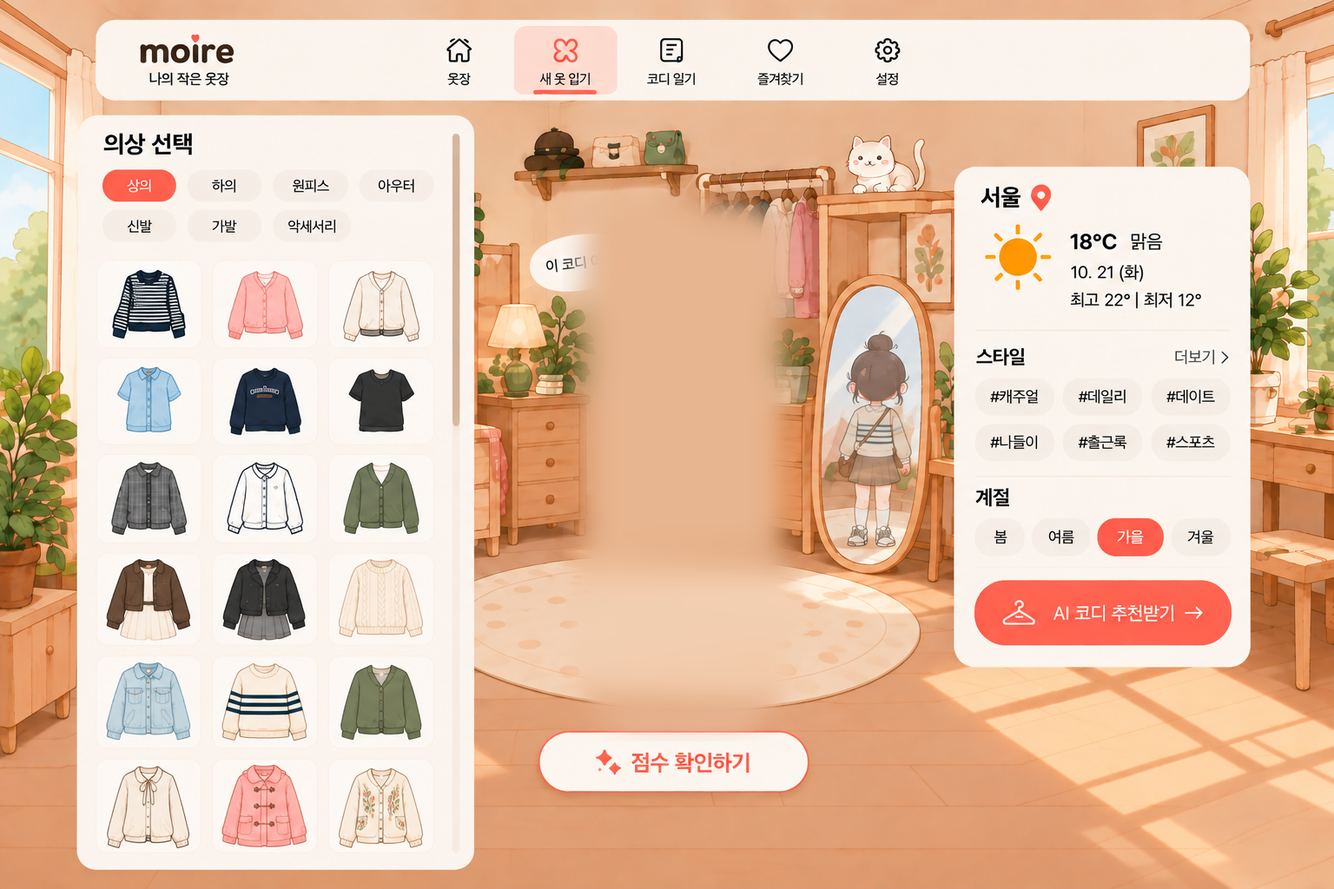
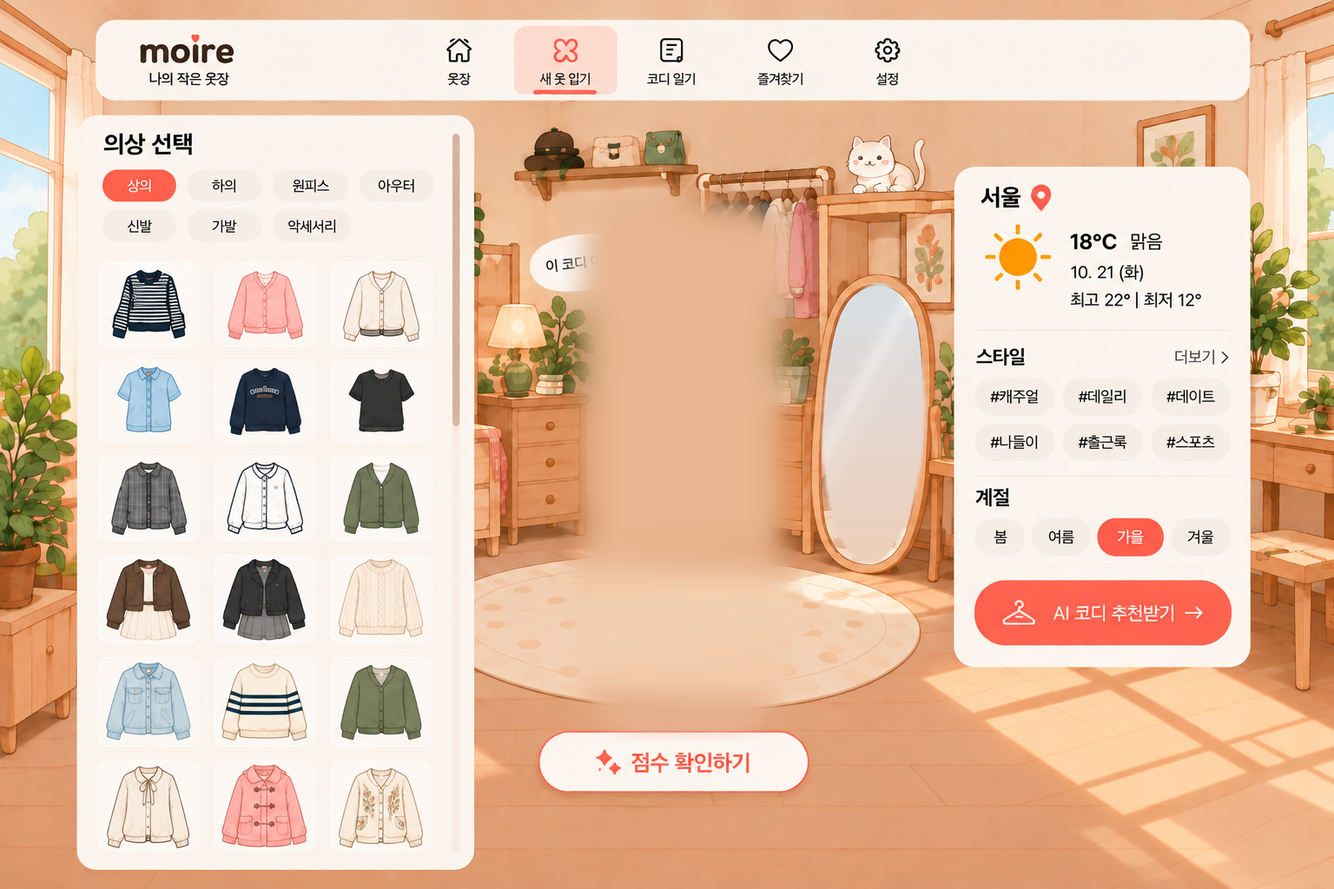
feat: show the mannequin's back view and outfit in the dress-up mirror (P-43)
- Repaint the mirror glass in pick-bg/recommend-bg to remove the girl
- Add a back view to Mannequin (SVG back hair, single back panel for outers, pajama back collar)
- Overlay the back-view mannequin on the mirror in the pick and recommend stages

Changed region(s): [[0.5938, 0.375, 0.7188, 0.625]]

diff --git a/web/src/components/Mannequin.jsx b/web/src/components/Mannequin.jsx
@@ -79,7 +79,7 @@ function darker(hex, amount = 0.3) {
 
 // 캐릭터 의상 틀 9개 (D-016, DESIGN §5.5). 잠옷처럼 마네킹의 몸 치수로 그려서 18가지 모양에 저절로 맞습니다.
 // 돌려주는 것: 틀을 이루는 path 목록
-function outfitPaths(template, d) {
+function outfitPaths(template, d, back = false) {
   const { sh, wa, hip, sy, waistY, hipY, armX, armW, armTop, wristY, legX, legW, pantW, ankleY } = d
   const legLen = ankleY - hipY
   const sleeve = (bottomY, extra = 0) =>
@@ -97,8 +97,21 @@ function outfitPaths(template, d) {
     }),
   ]
   // 앞이 열린 아우터의 한쪽 판. s = -1(왼쪽), 1(오른쪽)
+  // 뒷모습(back)은 두 판이 가운데에서 맞닿아 등판 하나로 보입니다.
   const outerHalf = (s, hemY) => {
     const p = (x, y) => `${s * x} ${y}`
+    if (back) {
+      return [
+        `M ${p(0, sy - 2)}`,
+        `L ${p(sh + 3, sy + 1)}`,
+        `Q ${p(sh + 5, sy + 2)} ${p(sh + 5, sy + 10)}`,
+        `Q ${p(sh + 5, (sy + 10 + waistY) / 2)} ${p(wa + 5, waistY)}`,
+        `Q ${p(hip + 6, (waistY + hipY) / 2)} ${p(hip + 6, hipY)}`,
+        `L ${p(hip + 7, hemY)}`,
+        `L ${p(0, hemY)}`,
+        'Z',
+      ].join(' ')
+    }
     return [
       `M ${p(13, sy - 1)}`,
       `L ${p(sh + 3, sy + 1)}`,
@@ -242,11 +255,11 @@ function usePattern(url) {
 // 칸 하나의 옷. 의상 틀이 있으면 틀을 대표 색으로 칠하고, 무늬가 있으면 틀 모양 안에만 겹칩니다(clipPath).
 // 틀이 없으면 2D 이미지를 칸 상자에 얹습니다.
 // item: 옷 한 벌 정보 { image_url, outfit_template, main_color, pattern_url } 또는 2D 이미지 주소(문자열)
-function ClothingShape({ item, box, dims, faded }) {
+function ClothingShape({ item, box, dims, faded, back }) {
   const clipId = `outfit-clip-${useId().replace(/:/g, '')}`
   const info = typeof item === 'object' ? item : null
   const pattern = usePattern(info?.pattern_url)
-  const paths = info?.main_color ? outfitPaths(info.outfit_template, dims) : null
+  const paths = info?.main_color ? outfitPaths(info.outfit_template, dims, back) : null
   if (!paths) {
     return <ClothingImage box={box} url={info ? info.image_url : item} faded={faded} />
   }
@@ -332,6 +345,42 @@ function EmptySlot({ box, label, labelY }) {
   )
 }
 
+const HAIR = '#604032'
+const HAIR_LINE = '#45291f'
+
+// 뒷머리 (거울에 비친 뒷모습). 머리 그림(HEAD)과 같은 자리·크기에 맞춰 그립니다.
+// 여자는 어깨 아래로 내려오는 긴 머리, 남자는 짧은 머리에 귀와 목덜미가 보입니다.
+function BackHead({ gender }) {
+  if (gender === 'male') {
+    return (
+      <g strokeLinejoin="round">
+        <ellipse cx={0} cy={56} rx={31} ry={28} fill={SKIN} stroke={SKIN_LINE} strokeWidth="1.2" />
+        {[-1, 1].map((s) => (
+          <ellipse key={s} cx={s * 35} cy={57} rx={6} ry={9} fill={SKIN} stroke={SKIN_LINE} strokeWidth="1.2" />
+        ))}
+        <path
+          d="M -36 52 C -40 12, -22 -1, 0 -1 C 22 -1, 40 12, 36 52 Q 30 70, 18 76 Q 9 72, 0 77 Q -9 72, -18 76 Q -30 70, -36 52 Z"
+          fill={HAIR}
+          stroke={HAIR_LINE}
+          strokeWidth="1.2"
+        />
+        <path d="M -4 14 Q -10 34, -14 56 M 6 16 Q 9 36, 12 58" fill="none" stroke={HAIR_LINE} strokeWidth="1" />
+      </g>
+    )
+  }
+  return (
+    <g strokeLinejoin="round">
+      <path
+        d="M -41 46 C -45 -12, 45 -12, 42 46 C 44 70, 49 92, 54 112 Q 47 131, 40 114 Q 33 132, 26 115 Q 20 131, 13 116 Q 6 132, 0 116 Q -6 132, -13 116 Q -20 131, -26 115 Q -33 132, -40 114 Q -47 131, -53 112 C -48 92, -43 70, -41 46 Z"
+        fill={HAIR}
+        stroke={HAIR_LINE}
+        strokeWidth="1.2"
+      />
+      <path d="M -10 4 Q -22 50, -26 108 M 10 4 Q 22 50, 26 108 M 0 6 Q 1 60, 0 110" fill="none" stroke={HAIR_LINE} strokeWidth="0.8" opacity="0.6" />
+    </g>
+  )
+}
+
 function Mannequin({
   gender = 'female',
   height = 'medium',
@@ -339,6 +388,7 @@ function Mannequin({
   outfit,
   showEmpty = false,
   fadedSlots = [],
+  back = false, // 뒷모습 (새 옷 입기의 거울에 비친 모습)
   className,
   title,
 }) {
@@ -389,7 +439,7 @@ function Mannequin({
   const coversBottom = hasDress || Boolean(worn.bottom)
   const pajamaFill = `url(#${patternId})`
   const slotShape = (slot) => (
-    <ClothingShape item={worn[slot]} box={boxes[slot]} dims={dims} faded={fadedSlots.includes(slot)} />
+    <ClothingShape item={worn[slot]} box={boxes[slot]} dims={dims} faded={fadedSlots.includes(slot)} back={back} />
   )
   const emptySlots = showEmpty
     ? ['shoes', 'bottom', 'top', 'outer'].filter((slot) => {
@@ -474,9 +524,9 @@ function Mannequin({
               strokeWidth="1.5"
               strokeLinejoin="round"
             />
-            {/* 앞섶과 단추 */}
-            <line x1={0} y1={SHOULDER_Y + 14} x2={0} y2={hipY + 12} stroke={PAJAMA_LINE} strokeWidth="1.2" />
-            {[0.2, 0.42, 0.64, 0.86].map((t) => (
+            {/* 앞섶과 단추 (뒷모습에는 없음) */}
+            {!back && <line x1={0} y1={SHOULDER_Y + 14} x2={0} y2={hipY + 12} stroke={PAJAMA_LINE} strokeWidth="1.2" />}
+            {!back && [0.2, 0.42, 0.64, 0.86].map((t) => (
               <circle
                 key={t}
                 cx={3}
@@ -528,8 +578,17 @@ function Mannequin({
           </g>
         ))}
 
-        {/* 칼라 */}
-        {!coversTop && [-1, 1].map((s) => (
+        {/* 칼라 (뒷모습은 목 뒤로 둘린 깃) */}
+        {!coversTop && back && (
+          <path
+            d={`M -17 ${SHOULDER_Y - 2} Q 0 ${SHOULDER_Y + 5} 17 ${SHOULDER_Y - 2} L 15 ${SHOULDER_Y + 5} Q 0 ${SHOULDER_Y + 12} -15 ${SHOULDER_Y + 5} Z`}
+            fill={COLLAR}
+            stroke={PAJAMA_LINE}
+            strokeWidth="1.5"
+            strokeLinejoin="round"
+          />
+        )}
+        {!coversTop && !back && [-1, 1].map((s) => (
           <path
             key={`collar${s}`}
             d={`M ${s * 1} ${SHOULDER_Y - 3} L ${s * 17} ${SHOULDER_Y - 1} L ${s * 14} ${SHOULDER_Y + 9} L ${s * 1} ${SHOULDER_Y + 16} Z`}
@@ -564,14 +623,18 @@ function Mannequin({
           />
         ))}
 
-        {/* 머리: 사람이 준 그림에서 잘라 낸 얼굴과 머리 (긴 머리는 어깨 위로 내려옴) */}
-        <image
-          href={head.href}
-          x={-head.cx * HEAD_SCALE}
-          y={CHIN_Y - head.chin * HEAD_SCALE}
-          width={head.w * HEAD_SCALE}
-          height={head.h * HEAD_SCALE}
-        />
+        {/* 머리: 사람이 준 그림에서 잘라 낸 얼굴과 머리 (긴 머리는 어깨 위로 내려옴). 뒷모습은 뒷머리 */}
+        {back ? (
+          <BackHead gender={gender} />
+        ) : (
+          <image
+            href={head.href}
+            x={-head.cx * HEAD_SCALE}
+            y={CHIN_Y - head.chin * HEAD_SCALE}
+            width={head.w * HEAD_SCALE}
+            height={head.h * HEAD_SCALE}
+          />
+        )}
       </g>
     </svg>
   )

diff --git a/web/src/styles/dressup.css b/web/src/styles/dressup.css
@@ -166,6 +166,35 @@
   height: 580px;
 }
 
+/* 거울에 비친 뒷모습. 배경 그림의 빈 거울 유리(타원, 2.2° 기울어짐)에 맞춥니다. */
+.du-mirror {
+  position: absolute;
+  left: 948px;
+  top: 327px;
+  width: 116px;
+  height: 322px;
+  border-radius: 50%;
+  overflow: hidden;
+  transform: rotate(2.2deg);
+}
+
+.du-mirror svg {
+  position: absolute;
+  left: -6px;
+  top: 41px;
+  width: 128px;
+  height: 256px;
+  opacity: 0.85;
+}
+
+/* 유리 반짝임을 비친 모습 위에도 겹칩니다. */
+.du-mirror::after {
+  content: '';
+  position: absolute;
+  inset: 0;
+  background: linear-gradient(118deg, transparent 30%, rgba(255, 255, 255, 0.35) 38%, transparent 46%);
+}
+
 /* ── 오른쪽 날씨·스타일·날짜 (시안 .side) ── */
 .du-side {
   position: absolute;
@@ -447,6 +476,18 @@
   top: 250px;
   width: 190px;
   height: 455px;
+}
+
+.du--recommend .du-mirror {
+  left: 947px;
+  top: 324px;
+  width: 112px;
+  height: 314px;
+}
+
+.du--recommend .du-mirror svg {
+  left: -8px;
+  top: 33px;
 }
 
 .du--recommend .du-side {

diff --git a/web/src/components/DressUpScreen.jsx b/web/src/components/DressUpScreen.jsx
@@ -411,6 +411,12 @@ function DressUpScreen({ mannequin, regions, onNoClothes, onConfirmed, initial, 
         </div>
       )}
       <Mannequin className="du-mannequin" {...mannequin} outfit={worn} showEmpty={!scoreStage} />
+      {/* 배경 그림의 빈 거울에 지금 입힌 코디의 뒷모습이 비칩니다. 점수 확인 배경에는 거울이 없습니다. */}
+      {!scoreStage && (
+        <div className="du-mirror" aria-hidden="true">
+          <Mannequin {...mannequin} outfit={worn} back />
+        </div>
+      )}
 
       {!scoreStage && (
         <SidePanel

diff --git a/README.md b/README.md
@@ -6,7 +6,7 @@ moire는 "My Outfit Identity Reflection Everyday"의 약자입니다. (D-019)
 
 ## 현재 상태
 
-P-11 ~ P-22를 마쳐 앱 전체가 가짜 부품(AI, 2D 이미지화, 날씨)으로 동작하게 만든 뒤, AI와 날씨는 진짜로 연결했습니다 (P-23 ~ P-29). 2D 이미지화는 서버에서 사진의 배경을 지운 투명 PNG를 만듭니다 (D-015, P-30). 마네킹에는 옷 종류별 틀 9개에 옷의 대표 색을 칠한 캐릭터 의상이 입혀지고, 옷 등록 창에서 [마네킹에 입혀 보기]로 미리 볼 수 있습니다 (D-016, P-31). 옷의 무늬(줄무늬, 데님, 벨트 등)도 서버가 사진에서 path로 바꿔 틀 안에만 보입니다 (P-32). 옷장의 옷 상세와 등록 창에서 [모습 조절]로 틀(같은 구분 안)과 옷의 위치·크기·기울기, 무늬의 위치·크기를 바꿀 수 있고, 마네킹이 나오는 모든 곳에 보입니다 (P-33). 등록 창의 [배경 고치기]로 배경색 고르기, 허용 오차, 지우기·복원 브러시, 실행 취소로 2D 이미지를 직접 고칠 수 있습니다 (P-34). 화면은 모두 시안(`style/html`과 사람이 준 그림)의 1536×1024 그림을 배경으로 깔고 창 크기에 맞춰 줄어듭니다 (P-38). 처음 열면 성별 → 키 → 체형 → 확인을 한 단계씩 골라 마네킹 모양을 정하고, 그 뒤에는 처음 화면(방 안에 잠옷 차림 마네킹, 말풍선, 오늘 날씨 카드)과 메뉴 다섯 개가 보입니다. 메뉴바 로고를 누르면 언제든 처음 화면으로 돌아옵니다. 메뉴 "옷장"에서 구분별 옷 목록을 보고, 옷을 등록하고(사진 올리기, 키워드 고르기, [+ 더하기]), 상세를 보고, 선택 키워드를 고치고, 지울 수 있습니다. 메뉴 "새 옷 입기"에서 날짜(오늘 포함 5일), 지역, 태그를 고르고, 옷을 마네킹에 입혀 점수를 보거나, AI의 추천을 최대 3벌 받아 [입혀 보기]로 고칠 수 있습니다. [확정하기]를 누르면 코디 일기에 저장되고 날씨 배경(맑음, 비, 눈)에 확정한 옷 차림과 날씨 카드, 오늘의 코디 아이템이 보입니다. 메뉴 "코디 일기"에서 3열 카드를 달별로 거르고 최신순·오래된순으로 보며, ⋯ 메뉴로 다시 입혀 보거나 지우고, ♡/♥로 즐겨찾기에 넣거나 뺄 수 있습니다. 추천 카드의 하트, 점수 확인 단계와 확정한 뒤 화면의 [즐겨찾기]로도 즐겨찾기에 넣을 수 있고, 메뉴 "즐겨찾기"의 옷걸이에서 카드를 끌어서 순서를 바꾸고, ♥로 바로 빼고, 카드를 눌러 다시 입혀 볼 수 있습니다. 메뉴 "설정"은 왼쪽 메뉴 네 개로 나뉘어, 마네킹 모양([설정 완료]로 저장), 내 지역(시·도 17곳), 옷 키워드와 종류 단어의 성별, 스타일 태그를 관리합니다. 비슷한 단어 확인은 AI가 합니다 (D-011). 가짜 AI(`AI_PROVIDER=fake`)일 때는 "블랙"을 더할 때만 질문이 나옵니다. 사진은 `data/photos/`에 저장됩니다. 서버를 켜면 `data/app.db`가 없을 때 새로 만들고 앱 기본 단어와 태그를 넣습니다 (D-017). AI, 2D 이미지화, 날씨는 `server/app/external/`에 있고, 진짜를 연결하는 일은 사람이 정한 뒤에 합니다. 진짜 AI는 Amazon Bedrock의 Nova Lite로 정했고(D-013), 연결 준비를 마쳤습니다 (P-23). 종류 단어의 성별, 비슷한 단어 판단, 코디 점수는 Nova Lite가 합니다 (P-24, P-25). 점수는 옷 키워드와 2D 이미지를 함께 보고 매깁니다. 코디 추천도 Nova Lite가 하며, 옷 사진 없이 구분과 키워드만 보고 고릅니다 (P-26). 추천받기 전에 페르소나(전문가, 친구, 즐겨찾기 기반 "내 스타일")와 요청 글(선택, 200자)을 고를 수 있고, 옷장에 맞는 옷이 모자라면 사면 좋을 옷을 최대 2개 함께 알려 줍니다 (P-39). 옷을 등록할 때 사진을 보고 구분과 키워드를 미리 고르는 일도 Nova Lite가 합니다 (P-27). AI를 기다리는 시간은 일마다 잰 값으로 정했고(API-SPEC §2.3), 넘기면 실패로 보고 정해 둔 실패 흐름을 탑니다 (P-28). `server/.env`의 `AI_PROVIDER`가 `fake`면 모두 가짜 AI가 답합니다. 날씨는 OpenWeatherMap의 무료 5일 예보로 받습니다 (D-014, P-29). 하루 상태(맑음, 흐림, 비, 눈)는 활동 시간(06시~21시) 예보로 고르고, 오늘은 지금 이후 시간만 반영됩니다. `server/.env`의 `WEATHER_PROVIDER`가 없거나 `fake`면 가짜 날씨입니다.
+P-11 ~ P-22를 마쳐 앱 전체가 가짜 부품(AI, 2D 이미지화, 날씨)으로 동작하게 만든 뒤, AI와 날씨는 진짜로 연결했습니다 (P-23 ~ P-29). 2D 이미지화는 서버에서 사진의 배경을 지운 투명 PNG를 만듭니다 (D-015, P-30). 마네킹에는 옷 종류별 틀 9개에 옷의 대표 색을 칠한 캐릭터 의상이 입혀지고, 옷 등록 창에서 [마네킹에 입혀 보기]로 미리 볼 수 있습니다 (D-016, P-31). 옷의 무늬(줄무늬, 데님, 벨트 등)도 서버가 사진에서 path로 바꿔 틀 안에만 보입니다 (P-32). 옷장의 옷 상세와 등록 창에서 [모습 조절]로 틀(같은 구분 안)과 옷의 위치·크기·기울기, 무늬의 위치·크기를 바꿀 수 있고, 마네킹이 나오는 모든 곳에 보입니다 (P-33). 등록 창의 [배경 고치기]로 배경색 고르기, 허용 오차, 지우기·복원 브러시, 실행 취소로 2D 이미지를 직접 고칠 수 있습니다 (P-34). 화면은 모두 시안(`style/html`과 사람이 준 그림)의 1536×1024 그림을 배경으로 깔고 창 크기에 맞춰 줄어듭니다 (P-38). 처음 열면 성별 → 키 → 체형 → 확인을 한 단계씩 골라 마네킹 모양을 정하고, 그 뒤에는 처음 화면(방 안에 잠옷 차림 마네킹, 말풍선, 오늘 날씨 카드)과 메뉴 다섯 개가 보입니다. 메뉴바 로고를 누르면 언제든 처음 화면으로 돌아옵니다. 메뉴 "옷장"에서 구분별 옷 목록을 보고, 옷을 등록하고(사진 올리기, 키워드 고르기, [+ 더하기]), 상세를 보고, 선택 키워드를 고치고, 지울 수 있습니다. 메뉴 "새 옷 입기"에서 날짜(오늘 포함 5일), 지역, 태그를 고르고, 옷을 마네킹에 입혀 점수를 보거나, AI의 추천을 최대 3벌 받아 [입혀 보기]로 고칠 수 있습니다. 방 안의 거울에는 고른 마네킹이 지금 입은 코디의 뒷모습이 비칩니다 (P-43). [확정하기]를 누르면 코디 일기에 저장되고 날씨 배경(맑음, 비, 눈)에 확정한 옷 차림과 날씨 카드, 오늘의 코디 아이템이 보입니다. 메뉴 "코디 일기"에서 3열 카드를 달별로 거르고 최신순·오래된순으로 보며, ⋯ 메뉴로 다시 입혀 보거나 지우고, ♡/♥로 즐겨찾기에 넣거나 뺄 수 있습니다. 추천 카드의 하트, 점수 확인 단계와 확정한 뒤 화면의 [즐겨찾기]로도 즐겨찾기에 넣을 수 있고, 메뉴 "즐겨찾기"의 옷걸이에서 카드를 끌어서 순서를 바꾸고, ♥로 바로 빼고, 카드를 눌러 다시 입혀 볼 수 있습니다. 메뉴 "설정"은 왼쪽 메뉴 네 개로 나뉘어, 마네킹 모양([설정 완료]로 저장), 내 지역(시·도 17곳), 옷 키워드와 종류 단어의 성별, 스타일 태그를 관리합니다. 비슷한 단어 확인은 AI가 합니다 (D-011). 가짜 AI(`AI_PROVIDER=fake`)일 때는 "블랙"을 더할 때만 질문이 나옵니다. 사진은 `data/photos/`에 저장됩니다. 서버를 켜면 `data/app.db`가 없을 때 새로 만들고 앱 기본 단어와 태그를 넣습니다 (D-017). AI, 2D 이미지화, 날씨는 `server/app/external/`에 있고, 진짜를 연결하는 일은 사람이 정한 뒤에 합니다. 진짜 AI는 Amazon Bedrock의 Nova Lite로 정했고(D-013), 연결 준비를 마쳤습니다 (P-23). 종류 단어의 성별, 비슷한 단어 판단, 코디 점수는 Nova Lite가 합니다 (P-24, P-25). 점수는 옷 키워드와 2D 이미지를 함께 보고 매깁니다. 코디 추천도 Nova Lite가 하며, 옷 사진 없이 구분과 키워드만 보고 고릅니다 (P-26). 추천받기 전에 페르소나(전문가, 친구, 즐겨찾기 기반 "내 스타일")와 요청 글(선택, 200자)을 고를 수 있고, 옷장에 맞는 옷이 모자라면 사면 좋을 옷을 최대 2개 함께 알려 줍니다 (P-39). 옷을 등록할 때 사진을 보고 구분과 키워드를 미리 고르는 일도 Nova Lite가 합니다 (P-27). AI를 기다리는 시간은 일마다 잰 값으로 정했고(API-SPEC §2.3), 넘기면 실패로 보고 정해 둔 실패 흐름을 탑니다 (P-28). `server/.env`의 `AI_PROVIDER`가 `fake`면 모두 가짜 AI가 답합니다. 날씨는 OpenWeatherMap의 무료 5일 예보로 받습니다 (D-014, P-29). 하루 상태(맑음, 흐림, 비, 눈)는 활동 시간(06시~21시) 예보로 고르고, 오늘은 지금 이후 시간만 반영됩니다. `server/.env`의 `WEATHER_PROVIDER`가 없거나 `fake`면 가짜 날씨입니다.
 
 문서는 README.md, AGENTS.md, DECISIONS.md, PLAN.md, PRD.md, ARCHITECTURE.md, SCREEN-SPEC.md, DATA-MODEL.md, API-SPEC.md, TEST-PLAN.md, DESIGN.md가 있습니다.
 

diff --git a/PLAN.md b/PLAN.md
@@ -81,6 +81,7 @@
 | P-40 | 추천: 진짜 AI 확인과 지시문 고치기 | 완료 | Bedrock·OpenWeatherMap 연결을 확인하고, P-39을 Nova Lite로 같은 12개 시나리오(날씨 4 × 페르소나 3)에 돌려 말투, 근거, 사면 좋을 옷을 보고 고친다. 모델 비교는 하지 않음 (사람이 정함, 2026-10-22) |
 | P-41 | 추천만 다른 모델로 (BEDROCK_MODEL_ID2) | 완료 | `server/.env`의 `BEDROCK_MODEL_ID2`가 있으면 추천만 그 모델로 보낸다. Claude 모델은 도구 강제와 temperature 없이 부른다. 추천 실패 이유를 서버 기록에 남긴다. 서울에서는 아시아·태평양(apac.) 모델만 쓴다 (Sonnet 5.5는 global.만 있어 쓰지 않음, 사람이 정함 2026-10-23). Claude 3.5 Sonnet 비교는 계정의 Anthropic 사용 목적 양식 처리 뒤 |
 | P-42 | 추천: 페르소나마다 모델, 버튼 위치 | 완료 | 페르소나 칩과 원하는 상황 입력칸을 [AI 코디 추천받기] 아래로 옮긴다. 전문가는 Claude 3.5 Sonnet(`BEDROCK_MODEL_ID2`), 친구·내 스타일은 Nova Lite. 전문가 모델을 못 부르면 실패로 보여 줌. D-020 (사람이 정함, 2026-10-23) |
+| P-43 | 새 옷 입기: 거울에 비친 뒷모습 | 확인 기다림 | 옷 고르기·추천 보기 배경의 거울에서 여자아이를 지우고, 그 자리에 고른 마네킹 모양과 지금 입힌 코디의 뒷모습이 비친다. 옷을 바꾸면 거울도 바로 바뀐다. 뒷머리는 SVG로 그린다 (사람이 정함, 2026-10-23). 사람이 화면을 보고 승인한다 |
 
 ## 실제 검증 결과
 
@@ -510,3 +511,9 @@
   - 진짜 AI 호출: 5번 (Sonnet 2, Nova 3). 어림 비용 약 $0.03
   - 실행하지 않음: 전문가 모델 실패를 화면에서 일부러 만들기 (서버 쪽은 기존 실패 흐름 그대로), 12개 시나리오 품질 비교
   - 다음 (사람이 정함): 전문가 기다리는 시간(약 15초, 서버 한도 20초)을 늘릴지
+- P-43 (2026-10-23, `recommend` 브랜치). 새 옷 입기 거울에 비친 뒷모습. 사람 확인 기다림.
+  - 정한 것 (사람이 정함, 2026-10-23): 남자 마네킹인데 거울에 여자아이가 비치는 문제를, 거울에 실제 마네킹의 뒷모습과 코디를 비추는 방법으로 고침. 빈 거울 배경은 AI가 Pillow로 만들고, 시험본을 본 뒤 원본을 바꿈. 뒷머리는 그림을 구하지 않고 SVG로 그림
+  - 만든 것: `pick-bg.png`, `recommend-bg.png`의 거울 유리 타원 안을 그라데이션과 사선 반짝임으로 다시 칠함 (나무 테두리는 그대로). `Mannequin.jsx`에 `back`(뒷머리 SVG, 아우터 등판 하나, 잠옷 뒷깃), `DressUpScreen.jsx`에 거울 자리 뒷모습 마네킹(점수 확인 단계에는 없음), `styles/dressup.css`에 `.du-mirror`(유리 타원에 맞춰 자르고 2.2° 기울임). DESIGN §5.10과 SCREEN-SPEC 새 옷 입기 머리에 "제안"으로 적음
+  - 확인: `npm run build` 통과, `npm run lint` 경고 13개 (전과 같음, 바꾼 파일은 경고 없음). 개발 서버(`data-dev`, 여자 마네킹)의 옷 고르기에서 상의·하의·신발·아우터를 입히자 거울의 뒷모습이 따라 바뀜. 여자·남자 × 잠옷·옷·원피스를 따로 그려 비교함. 추천 보기는 화면 상태만 바꿔 배경과 거울 위치가 맞는지 봄
+  - 실행하지 않음: 진짜 AI 추천 뒤의 추천 보기 화면 (위처럼 위치만 확인), 실제 화면에서 남자 마네킹 (`data-dev` 설정이 여자, 따로 그려서만 확인)
+  - 남은 것: 무늬는 옷 사진 앞면에서 뽑은 것이라 앞쪽 선이나 로고가 뒷모습에도 보임. 의상 틀이 없는 옷은 뒷모습에도 앞 2D 이미지. 배경은 팀원 시안(D-019)을 고친 것이라 팀원에게 알림

diff --git a/SCREEN-SPEC.md b/SCREEN-SPEC.md
@@ -211,7 +211,7 @@ PRD에는 없는 내용입니다. ARCHITECTURE §5에서 SCREEN-SPEC과 API-SPEC
 메뉴 "새 옷 입기"를 누르면 방 안의 옷장이 커지고, 마네킹 위에 조건 띠가 생깁니다. 직접 옷을 입히거나 "추천받기"로 추천을 받습니다.
 
 - 옷이 한 벌도 없으면 이 화면을 열지 않고 옷 없음 경고창(2.6)을 보인 뒤 옷장(6장)으로 옮겨 갑니다. (사람이 정함, 2026-10-20)
-- (2026-10-22 바꿈, P-38) 시안 `style/html`의 08_1(따뜻한: 옷 고르기), 08_1(파스텔: 추천 보기), 12(점수 확인)를 그대로 옮겼습니다 (사람이 정함). 배경은 시안 PNG에서 가운데 캐릭터 자리를 메운 그림이고, 그 자리에 앱 마네킹이 섭니다. 마네킹 옆에 말풍선 "이 코디 어때?"(장식). 시안의 가방·악세서리 칩과 계절 칩, 점수의 항목별 점수는 앱에 없어 넣지 않습니다 (사람이 정함). 아래 각 절의 그림과 표는 기능 기준이고, 배치는 각 절 머리의 설명을 따릅니다.
+- (2026-10-22 바꿈, P-38) 시안 `style/html`의 08_1(따뜻한: 옷 고르기), 08_1(파스텔: 추천 보기), 12(점수 확인)를 그대로 옮겼습니다 (사람이 정함). 배경은 시안 PNG에서 가운데 캐릭터 자리를 메운 그림이고, 그 자리에 앱 마네킹이 섭니다. 마네킹 옆에 말풍선 "이 코디 어때?"(장식). (제안, 2026-10-23) 옷 고르기·추천 보기의 거울에는 지금 입힌 코디를 입은 마네킹의 뒷모습이 비칩니다. 고른 마네킹 모양(성별, 키, 체형)을 따르고, 옷을 바꾸면 바로 같이 바뀝니다. 누를 수 없는 장식입니다 (DESIGN §5.10). 시안의 가방·악세서리 칩과 계절 칩, 점수의 항목별 점수는 앱에 없어 넣지 않습니다 (사람이 정함). 아래 각 절의 그림과 표는 기능 기준이고, 배치는 각 절 머리의 설명을 따릅니다.
 
 ### 5.1 조건 띠
 

diff --git a/DESIGN.md b/DESIGN.md
@@ -302,6 +302,8 @@
 - 추천 보기: 옷 패널(92, 224, 388×466), 날씨 패널(1101, 150, 332 폭), 아래 "AI 추천 코디"(67, 715, 1400×278)에 카드 430×203
 - 점수 확인: "오늘의 코디"(110, 162, 348×670), "AI 코디 평가 결과"(886, 162, 580×653, 마스코트는 시안 PNG에서 잘라 씀), 아래 버튼 띠(360, 856, 933×99)
 - 날씨 그림: 맑음은 시안의 해, 흐림·비·눈은 같은 크기의 구름 그림
+- 거울 (제안, 2026-10-23): 옷 고르기·추천 보기 배경의 거울에 그려져 있던 여자아이를 지우고(유리 타원 안을 위 하늘색 → 가운데 분홍 → 아래 살구색 그라데이션과 사선 반짝임 두 줄로 다시 칠함, Pillow), 그 자리에 지금 입힌 코디를 입은 마네킹의 뒷모습을 겹침. 유리 타원(1536×1024 캔버스): 옷 고르기 가운데 (1006, 488) 반지름 58×161, 추천 보기 (1003, 481) 56×157, 둘 다 2.2° 기울어짐. 뒷모습은 불투명도 0.85, 위에 흰 사선 반짝임. 점수 확인 배경에는 거울이 없어 겹치지 않음
+- 뒷모습 마네킹 (제안, 2026-10-23): 몸과 옷은 앞모습과 같은 틀(§5.5)을 씀. 아우터는 앞이 열리지 않고 두 판이 가운데에서 맞닿음, 잠옷은 단추·앞섶 대신 목 뒤 깃. 머리는 SVG로 그린 뒷머리(머리색 `#604032`, 선 `#45291F`): 여성은 어깨 아래까지 오는 긴 머리, 남성은 짧은 머리에 귀와 목덜미. 무늬는 옷 사진 앞면에서 뽑은 것이라 로고가 있는 옷은 뒷모습에도 로고가 보임
 
 ### 5.11 확정한 뒤 화면 (P-38)
 
